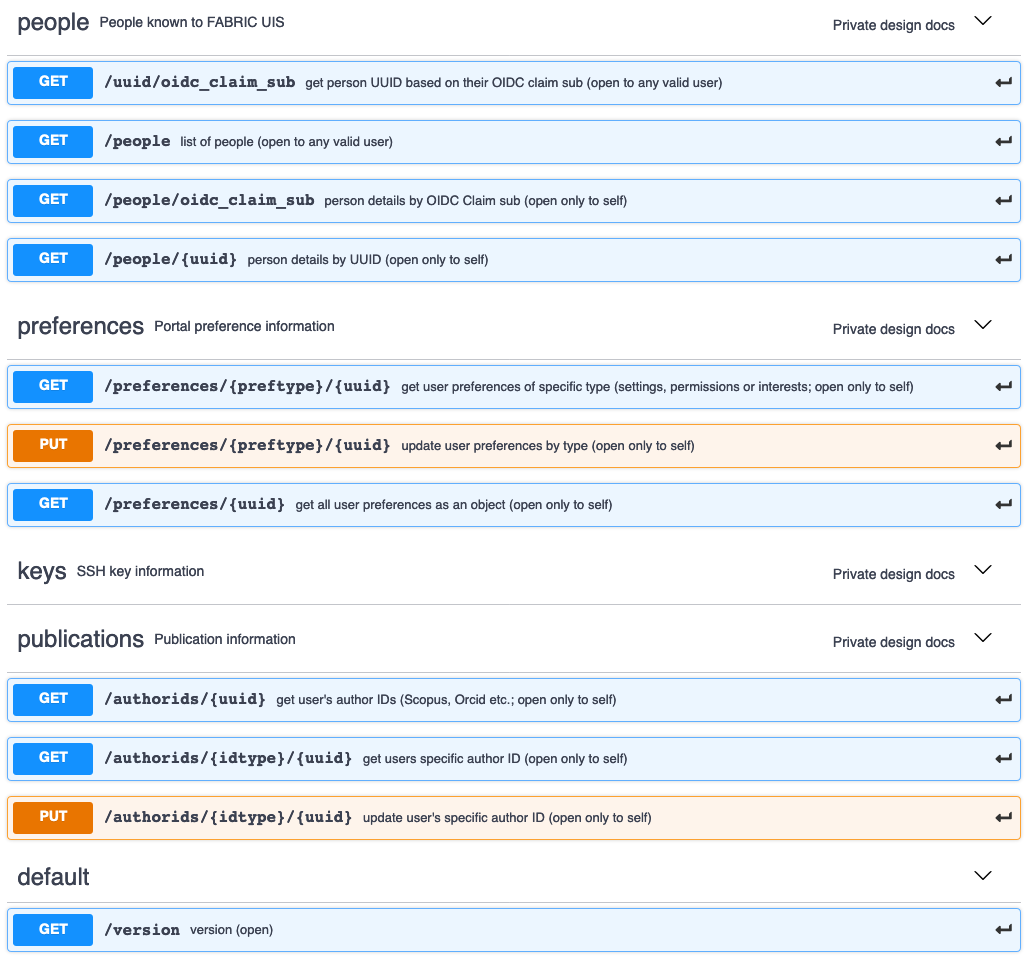
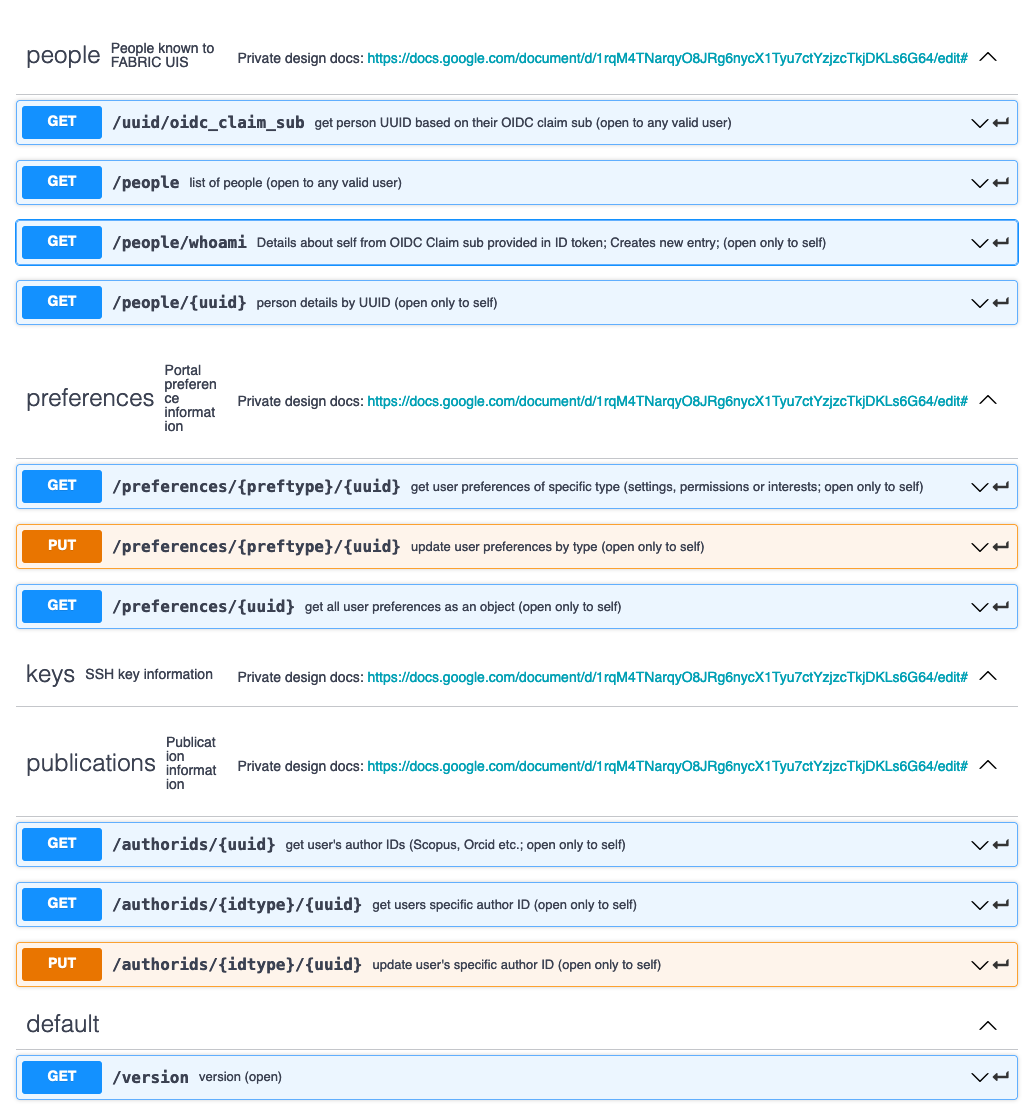
Updated README file and API images

Changed region(s): [[0.0, 0.0, 0.9932, 0.6198], [0.0, 0.6508, 0.9932, 0.9917]]

diff --git a/README.md b/README.md
@@ -23,16 +23,17 @@ intended to be deployed as a Dockerized Flask application run by `uwsgi` behind 
  
 UIS provides guarded access to user information - portal preferences, publications, SSH keys, alternate IDs and so on.
 
-Most of the API calls allow only the user herself to request her own information and is intended (via
+Most of the API calls allow only the user themselves to request their own information and is intended (via
 mechanism like [VouchProxy](https://github.com/vouch/vouch-proxy)) to allow a user to authenticate using OIDC via 
 a portal application and, once authenticated, for the portal to request the necessary information on 
-user behalf.
+user's behalf.
 
-The initial implementation provides several entrypoints:
+The initial implementation provides several endpoints:
 
 ![UIService API](imgs/api-screenshot.png)
+![UIService API1](imgs/api-screenshot1.png)
 
-There are several entrypoints intended for the portal to store and retrieve different types of preferences on
+There are several endpoints intended for the portal to store and retrieve different types of preferences on
 behalf of the user. These are opaque JSON dictionaries to UIS and are encoded and interpreted 
 by the portal logic. Preferences come in three separate flavors: `settings` for portal settings,
 `permissions` - for personal information visibility permissions and `interests` - for social interests 
@@ -48,6 +49,9 @@ Preferences:
      interests:
        type: object
 ```
+
+Additional endpoints deal with generating/uploading/searching for SSH public keys. Keys
+can be stored in the local database or in COmanage depending on the deployment configuration
 
 # Database
 
@@ -72,7 +76,8 @@ postgres-# \dt
 postgres-# 
 ```
 
-Read the COmanage section and other sections regarding impact of manipulataing the database by hand.
+## Indexing
+All indexes should be created from the SQLAlchemy ORM code in [server/swagger_server/database/models.py](server/swagger_server/database/models.py)
 
 # COmanage and User Management
 
@@ -86,6 +91,9 @@ but their preferences are lost.
 
 Alternatively if the new co_person_id is known, UIS database `co_person_id` column can
 be updated with the new value for the re-enrolled user.
+
+COmanage is also used to store public SSH key although metadata about those keys is maintained
+in UIS local database.
 
 Details of COmanage API can be found [here](https://spaces.at.internet2.edu/display/COmanage/CoPerson+API).
  
@@ -147,6 +155,10 @@ select table_name, column_name, data_type from information_schema.columns where 
 ```
 \dt describe tables
 ```
+- describe individual table
+```buildoutcfg
+\d fabric_people
+```
 
 ### Testing comanage code
 
@@ -162,7 +174,8 @@ Production deployment is meant to mimic the 'Vouch Proxy' local docker deploymen
 proper secrets, certs etc. You must edit the following files to support a production deployment:
 - [nginx/default.conf](vouch/default.conf) - API routing
 - [vouch/config_template](vouch/config_template) - Vouch Proxy configuration discussed below
-- [env_template](env_template) - environment settings that determine the behavior of docker-compose. NOTE: Values are case sensitive, although names are not. 
+- [env_template](env_template) - environment settings that determine the behavior of docker-compose. 
+NOTE: Values are case sensitive, although names are not. 
 
 To configure Vouch Proxy, copy [vouch/config_template](vouch/config_template) to `vouch/config`, edit at least the 
 following parameters:
